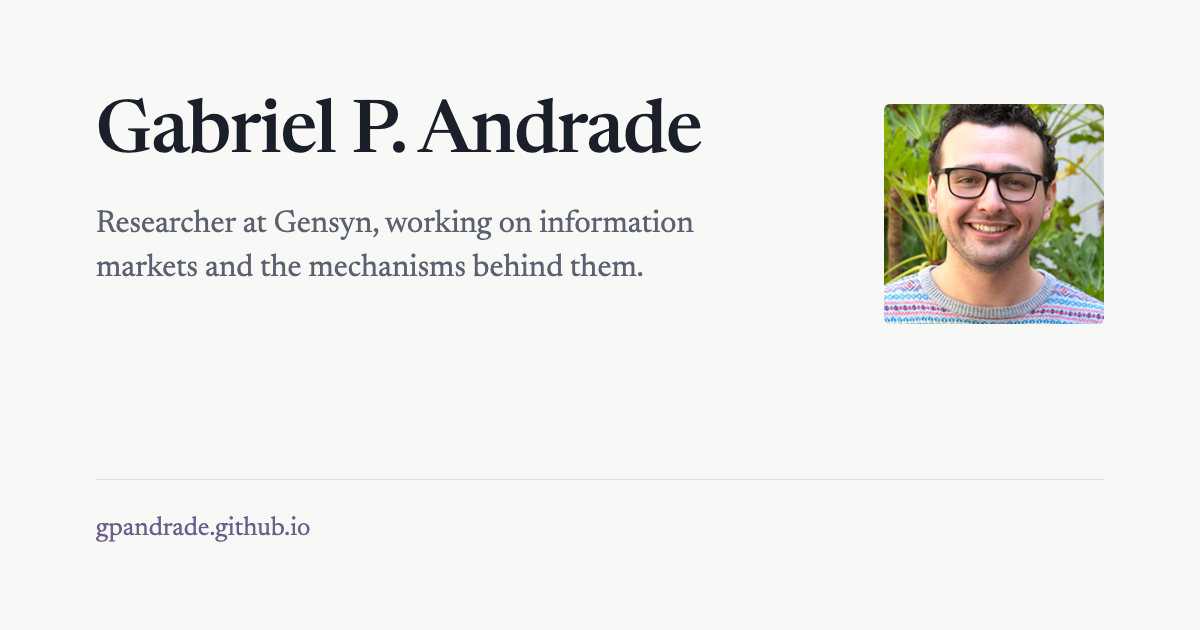
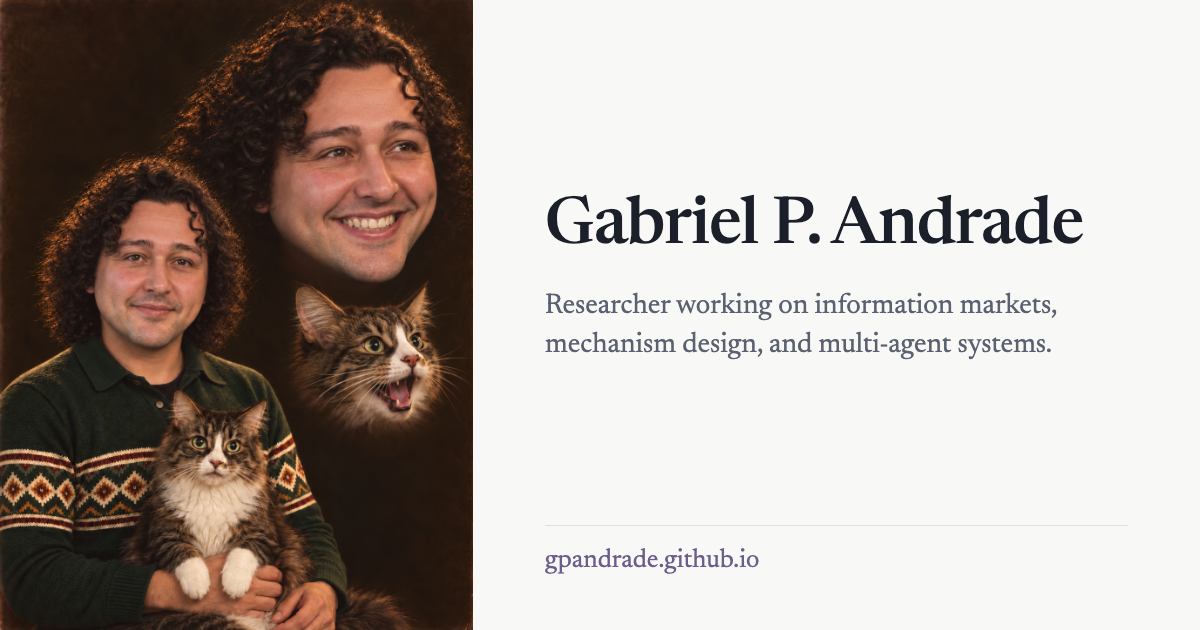
Portrait: the 3:4 composite replaces the square headshot
The original PNG is archived in media-src/; the working source is a
900px-wide JPEG (q94, 363 KB) at src/assets/headshot.jpg, and the old
square headshot.png is gone. The portrait renders at its own ratio,
never cropped: 200px wide from 720px, flush with the column's right
edge, top on the cap height of the name (2px of margin, measured at
quarter-pixel); 180px above the name, left-aligned, under 720px. Astro
emits 200/360/400px WebPs with sizes, so phones and retina desktops
load the 2x file, and the img carries fetchpriority=high since it is
now the LCP element on mobile.

Two layouts behind site.header (PUBLIC_HEADER): grid (default) keeps
the loops figure under the header; float runs the portrait down past
the About heading and first paragraph, with the loops figure after
About. The loops figure moves into src/components/Loops.astro.

Dark mode drops the brightness/saturation dim and keeps the 1px rule
(the vignette's edges sit within a few levels of --bg); light mode has
no treatment. Alt text "Gabriel P. Andrade and his cat Sadie". og.png
regenerated with the portrait at left, full height. Lighthouse
unchanged for both layouts (98/100/100/100, FCP 0.9 s, LCP 2.4 s).
Brief §3, §6, §18, CLAUDE.md and README updated.

diff --git a/src/styles/global.css b/src/styles/global.css
@@ -135,9 +135,11 @@ a:hover {
   }
 }
 
-/* Header: photo, then name block (name, identity line, links row). Nothing crosses the column edges.
-   Under 720px the photo (120px) stacks above the name; from 720px it sits flush right at 160px,
-   top aligned with the cap height of the name, and the name block takes the remaining width. */
+/* Header: the portrait (3:4, drawn at its own ratio, never cropped), then the name block (name, identity line,
+   links row). Nothing crosses the column edges. Under 720px the portrait stacks above the name at 180px,
+   left-aligned. From 720px it is 200px wide, flush with the column's right edge, its top on the cap height of the
+   name, in one of two layouts (site.header): `grid`, a column beside the name block with the row growing to the
+   portrait's height; `float`, floated right so the name block and the start of About wrap beside it. */
 .masthead {
   display: grid;
   gap: 1.25rem 2rem;
@@ -145,13 +147,14 @@ a:hover {
 }
 .masthead .headshot {
   display: block;
-  width: 120px;
-  height: 120px;
+  width: 180px;
+  height: auto;
   border-radius: 4px;
 }
+/* The portrait's vignette runs within a few levels of the dark --bg, so a 1px rule keeps the frame a frame there.
+   No treatment in light mode. */
 @media (prefers-color-scheme: dark) {
   .masthead .headshot {
-    filter: brightness(0.85) saturate(0.9);
     box-shadow: 0 0 0 1px var(--rule);
   }
 }
@@ -165,18 +168,29 @@ a:hover {
 }
 @media (min-width: 720px) {
   .masthead {
-    grid-template-columns: 1fr 160px;
+    grid-template-columns: 1fr 200px;
   }
   .masthead .headshot {
-    width: 160px;
-    height: 160px;
+    width: 200px;
     grid-column: 2;
     grid-row: 1;
-    margin-top: 3px; /* measured: puts the photo's top edge on the cap height of the name */
+    margin-top: 2px; /* measured at quarter-pixel: puts the portrait's top edge on the cap height of the name */
   }
   .masthead .nameblock {
     grid-column: 1;
     grid-row: 1;
+  }
+  .masthead[data-layout='float'] {
+    display: block;
+  }
+  .masthead[data-layout='float'] .headshot {
+    float: right;
+    margin-left: 2rem;
+    margin-bottom: 1rem;
+  }
+  /* Only the first block of main (About) wraps beside the float; everything after it clears. */
+  .masthead[data-layout='float'] + main > * + * {
+    clear: both;
   }
 }
 main > section:first-child h2 {

diff --git a/src/site.ts b/src/site.ts
@@ -4,6 +4,7 @@ export const site = {
   role: 'Researcher at Gensyn, working on information markets and the mechanisms behind them.',
   /** One sentence under the name. No affiliation; the bio carries that. */
   identity: 'Researcher working on information markets, mechanism design, and multi-agent systems.',
+  portraitAlt: 'Gabriel P. Andrade and his cat Sadie',
   jobTitle: 'Researcher',
   affiliation: { name: 'Gensyn', url: 'https://www.gensyn.ai/' },
   teamPage: 'https://www.gensyn.ai/team/gabriel-andrade',
@@ -41,4 +42,8 @@ export const site = {
   /** Where the dynamics loops live. 'pair': both loops in a figure under the header and the paper keeps a "Loops"
    *  link. 'lorenz': one larger Lorenz loop under the header; the Chua loop stays in the paper. */
   loops: ((import.meta.env.PUBLIC_LOOPS as string | undefined) ?? 'pair') as 'pair' | 'lorenz',
+  /** How the portrait sits from 720px. 'grid': a column beside the name block, the header row growing to the
+   *  portrait's height. 'float': floated right across the header and the start of About, which then precedes the
+   *  loops figure so its heading and first paragraph wrap beside the portrait. */
+  header: ((import.meta.env.PUBLIC_HEADER as string | undefined) ?? 'grid') as 'grid' | 'float',
 } as const;

diff --git a/docs/brief.md b/docs/brief.md
@@ -62,7 +62,7 @@ Audience is mixed: EC/COLT academics, DeFi and crypto people, potential collabor
 --rule             #E2E2DD    #262A31
 ```
 
-Dark mode: `prefers-color-scheme`, no toggle. Body gets an explicit background. In dark mode the headshot is dimmed (brightness 0.85, saturate 0.9) and seated on a 1px `--rule` so it doesn't float as a bright block.
+Dark mode: `prefers-color-scheme`, no toggle. Body gets an explicit background. In dark mode the portrait sits on a 1px `--rule`: its vignette runs within a few levels of `--bg`, and the rule keeps the frame a frame. No treatment in light mode, and no dimming in either (that was for the earlier light-background photo).
 
 ### Type
 
@@ -84,8 +84,8 @@ Scale, 17px base:
 Left-aligned, ragged right. Content column `max-width: 42rem`, page padding 1.25rem, top margin 4rem desktop / 2rem mobile. At ≥ 720px the papers and writing lists use a two-column grid, `4.5rem 1fr`, with the year (or date) in the gutter, shown once per year group. Below 720px the gutter collapses to a line above the group.
 
 ```
-Gabriel P. Andrade                              [headshot 160px,
-Researcher working on information markets,       flush with the
+Gabriel P. Andrade                              [portrait 200px wide,
+Researcher working on information markets,       3:4, flush with the
 mechanism design, and multi-agent systems.       column's right edge,
 Email   Google Scholar   X   GitHub   LinkedIn   top on the cap height]
 
@@ -124,7 +124,7 @@ Writing
 Gabriel P. Andrade   Source on GitHub
 ```
 
-Headshot: square, 4px radius (not a circle). From 720px, 160px inside the column, flush with its right edge, top edge on the cap height of the name (measured, not eyeballed); the name block takes the remaining width and nothing crosses the column edges at any width. Under 720px, 120px above the name, left-aligned.
+Portrait: the 3:4 composite of Gab and his cat Sadie, drawn at its own ratio and never cropped (the whole frame is the point), 4px radius (not a circle), alt text "Gabriel P. Andrade and his cat Sadie". Source `src/assets/headshot.jpg`, 900px wide, under 400 KB; the original under `media-src/`. The build emits 200/360/400px WebPs with `sizes`, a true 2× asset at both rendered widths. From 720px, 200px wide, flush with the column's right edge, top edge on the cap height of the name (measured, not eyeballed: 2px of margin); the name block takes the remaining width and nothing crosses the column edges at any width. Two layouts behind `site.header`: `grid` (default; the header row grows to the portrait's height) and `float` (the portrait floats right across the header and the start of About, which then precedes the loops figure so its heading and first paragraph wrap beside it). Under 720px, 180px above the name, left-aligned.
 
 Videos: two-up `<figure>` inside the COLT 2021 entry, each ~50% width on desktop, stacked on mobile, native aspect ratio, `figcaption` in meta style. Markup in §6.
 
@@ -288,7 +288,7 @@ Under `prefers-reduced-motion: reduce`, a short inline script before `</body>` r
 ### Images
 
 - Headshot: `dssi_portrait.png` (§14 Q3), 220×275, kept as is. Place in `src/assets/headshot.png`; render with Astro `<Image>` as a 220×220 crop shown at 160px (120px on mobile), `alt="Gabriel P. Andrade"`. Softness on retina screens is accepted; never upscale.
-- `og.png`: 1200×630, site palette, name + role line + headshot at 220px (no upscaling), the site URL in the accent, no texture. Made once by screenshotting an HTML card with Playwright (`scratchpad`, not a build dependency); the PNG is committed.
+- `og.png`: 1200×630, site palette, the portrait at left at full height (473×630, from the `media-src/` original), name and identity line at right, the site URL in the accent, no texture. Made once by screenshotting an HTML card with Playwright (`scratchpad`, not a build dependency); the PNG is committed.
 - `favicon.svg`: a monogram in the accent colour. Keep it under 1 KB.
 
 ### PDFs
@@ -511,3 +511,13 @@ Changes to §2, §3 and §6 made on the `motion` branch; the text above is left 
    bottom). `site.textureIdle` toggles the idle drift.
 4. Review material (screenshots, recordings, Lighthouse reports) lives in the session scratchpad, not the repo;
    `docs/screenshots/` is gone.
+
+## 18. Portrait (2026-10-13)
+
+The square headshot is replaced by a 3:4 composite portrait (Gab and his cat Sadie), never cropped. Decisions taken in this pass:
+
+1. Source: the original PNG archived in `media-src/`; the working source is a 900px-wide mozjpeg JPEG at q94 (363 KB), the largest under the 400 KB cap; the old `headshot.png` removed.
+2. Sizes: 200px from 720px, flush with the column's right edge, top on the cap height (2px of margin, measured at quarter-pixel in both schemes); 180px under 720px, above the name, left-aligned. `widths` 200/360/400 with `sizes`, so phones and retina desktops get the 2× file.
+3. Layouts behind `site.header` (`PUBLIC_HEADER`): `grid` (A) is the default, since it keeps the loops figure directly under the header; `float` (B) uses the space under the links but moves the loops below About, off the first screen at 1280×800 and on a phone.
+4. Dark mode: the brightness/saturation dim is gone; the 1px `--rule` stays because the portrait's edges measure within a few levels of the dark `--bg`. Light mode: nothing.
+5. `og.png` regenerated with the portrait at left, full height; favicon unchanged. Lighthouse unchanged at 98/100/100/100, FCP 0.9 s, LCP 2.4 s, for both layouts.

diff --git a/CLAUDE.md b/CLAUDE.md
@@ -10,8 +10,8 @@ Personal site. Astro 7, deployed by .github/workflows/deploy.yml to GitHub Pages
 
 ## Rules
 - Never rename or remove MSRIREUPaperZ.pdf or seminaryear1_deptnewsletter.pdf under public/; they are linked externally.
-- No media over 3 MB, except the archive copies in media-src/, which are never deployed. Videos: webm + mp4 + poster, muted loop (docs/brief.md §6).
+- No media over 3 MB, except the archive copies in media-src/ (the source videos and the original portrait), which are never deployed. Videos: webm + mp4 + poster, muted loop (docs/brief.md §6).
 - One typeface (Newsreader), sentence case, no icons, cards, shadows, gradients. No client-side JS beyond the two exemptions in docs/brief.md §3 (reduced-motion toggle, texture layer).
-- Flags in src/site.ts: `texture` (background layer on/off), `textureVariant` (`conservative` | `full`), `textureIdle`, `videoFilter` (`hue` | `none` | `invert`), and `loops` (`pair` | `lorenz`: where the dynamics loops sit). Each has a `PUBLIC_*` env override for review builds.
+- Flags in src/site.ts: `texture` (background layer on/off), `textureVariant` (`conservative` | `full`), `textureIdle`, `videoFilter` (`hue` | `none` | `invert`), `loops` (`pair` | `lorenz`: where the dynamics loops sit), and `header` (`grid` | `float`: how the portrait sits beside the name, docs/brief.md §18). Each has a `PUBLIC_*` env override for review builds.
 - Run `npm run build` before pushing template changes.
 - Review material (screenshots, recordings, Lighthouse reports) goes in the session scratchpad, not the repo.

diff --git a/README.md b/README.md
@@ -6,7 +6,7 @@ Built with [Astro](https://astro.build): one page, one typeface, no client-side 
 
 - `src/data/papers.yaml`: papers and earlier work. Schema in `src/content.config.ts`; a bad entry fails the build.
 - `src/data/writing.yaml`: posts elsewhere.
-- `src/site.ts`: name, identity line, links row, bio, and the flags (`texture`, `textureVariant`, `textureIdle`, `videoFilter`, `loops`).
+- `src/site.ts`: name, identity line, links row, bio, and the flags (`texture`, `textureVariant`, `textureIdle`, `videoFilter`, `loops`, `header`).
 - `public/`: files served at the site root, including two PDFs that predate the rebuild and keep their URLs.
 - `media-src/`: archive copies of the two dynamics videos; not deployed.
 - `scripts/refresh.py`: the weekly papers refresh (`docs/brief.md` §10), run Mondays by `.github/workflows/refresh.yml`, which opens a pull request with new works as drafts.
